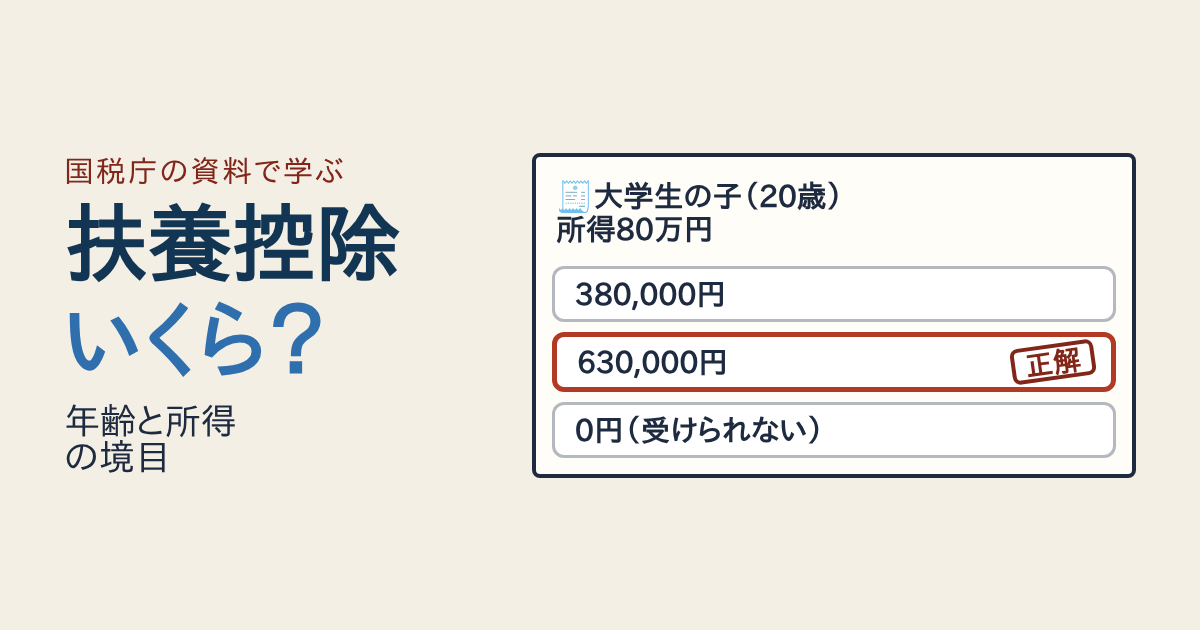
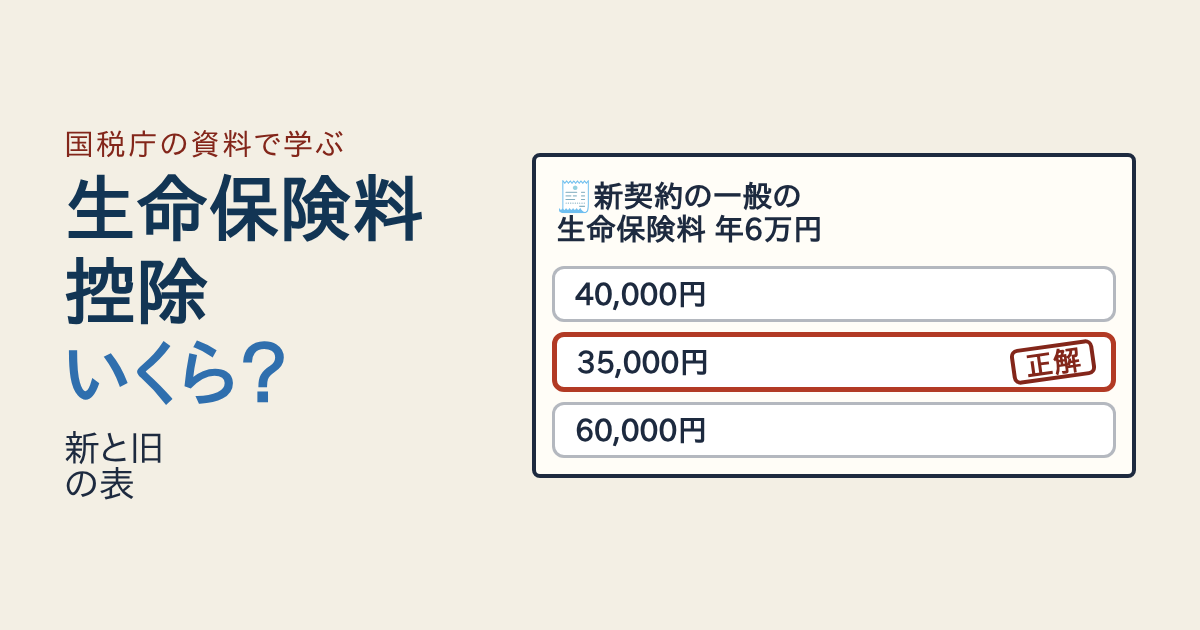
SNS の絵をこのゲームの題にし、23歳未満の特例は令和8年分のこととだけ書く（QA で見張る）
Claude-Session: https://claude.ai/code/session_01SbNQtXR9tCQbYoa7UYwgWZ

diff --git a/data.js b/data.js
@@ -1,9 +1,9 @@
 // 生命保険料控除いくら？の問題を作る（ブラウザと node の両方で使う）。
-// 中身は、国税庁タックスアンサー No.1140「生命保険料控除」に書いてあることだけ（［令和8年4月1日現在法令等］。令和8年分以降の23歳未満の扶養親族の特例を含む。2026-11-17 に読んだ。要点は共有フォルダ games/seiho-ikura-research.md）。
+// 中身は、国税庁タックスアンサー No.1140「生命保険料控除」に書いてあることだけ（［令和8年4月1日現在法令等］。令和8年分の23歳未満の扶養親族の特例を含む。2026-11-17 に読んだ。要点は共有フォルダ games/seiho-ikura-research.md）。
 // 1問は、1年に払った生命保険料・介護医療保険料・個人年金保険料（新契約か旧契約か）を読んで、生命保険料控除の額を選ぶ。正解したら2段目「どの決まり？」を選ぶ。
 // 答えはコードで計算する：新契約（平成24年1月1日以後）は 2万円以下 全額・4万円以下 ×1/2+1万円・8万円以下 ×1/4+2万円・超 4万円。
 //   旧契約（平成23年12月31日以前）は 2.5万円以下 全額・5万円以下 ×1/2+1.25万円・10万円以下 ×1/4+2.5万円・超 5万円。
-//   新と旧の両方があるときは、新だけ・旧だけ・両方の合計（4万円まで）のうち多いほう。令和8年分から、23歳未満の扶養親族がいると新生命保険料は別の表（最高6万円。両方の合計も6万円まで）。
+//   新と旧の両方があるときは、新だけ・旧だけ・両方の合計（4万円まで）のうち多いほう。令和8年分は、23歳未満の扶養親族がいると新生命保険料は別の表（最高6万円。両方の合計も6万円まで）。
 //   3つ（一般の生命保険料・介護医療保険料・個人年金保険料）の合計は12万円まで。支払保険料等は、払った額から剰余金・割戻金を引いた額。
 // 金額はどれも4の倍数にして、1円未満の端数が出ないようにする（No.1140 に端数の決まりが書いていないため）。
 // 税額・保険期間5年未満の貯蓄保険などの対象外・地方税（住民税）・申告の手続きは扱わない（画面に書く）。
@@ -12,7 +12,7 @@
 (function (root) {
   "use strict";
   const LV = ["やさしい", "ふつう", "むずかしい"];
-  const AS_OF = "令和8年4月1日現在法令等（令和8年分以降の23歳未満の扶養親族の特例を含む）";
+  const AS_OF = "令和8年4月1日現在法令等（令和8年分の23歳未満の扶養親族の特例を含む）";
 
   // 出典（画面の「なぜ」に出す）
   const SRC = {
@@ -46,7 +46,7 @@
     shin: "2012年1月1日以後の契約は新契約の表です。2万円まで全額、8万円を超えると4万円です。",
     kyu: "2011年12月31日以前の契約は旧契約の表です。2.5万円まで全額、10万円を超えると5万円です。旧契約の医療保険も旧生命保険料です。",
     awase: "新と旧の両方があると、新だけ・旧だけ・両方の合計（4万円まで）のうち多いほうです。旧が6万円を超えると旧だけが多くなります。",
-    wakai: "令和8年分から、23歳未満の扶養親族がいると新生命保険料は別の表です。3万円まで全額、12万円を超えると6万円です。",
+    wakai: "令和8年分は、23歳未満の扶養親族がいると新生命保険料は別の表です。3万円まで全額、12万円を超えると6万円です。",
     gokei: "一般の生命保険料・介護医療保険料・個人年金保険料の控除を足します。合計は12万円までです。",
   };
   const KEY = {

diff --git a/index.html b/index.html
@@ -501,7 +501,7 @@ const TIPS = [
   ["旧契約の表", "2.5万円まで全額、5万円まで半分＋1.25万円、10万円まで4分の1＋2.5万円、10万円を超えると5万円です。"],
   ["3つの控除", "一般の生命保険料・介護医療保険料・個人年金保険料で、それぞれ控除を出して足します。合計は12万円までです。"],
   ["新と旧の両方", "新と旧の両方があると、両方の合計は4万円までです。旧だけで計算したほうが多ければ、そちらを使えます。"],
-  ["23歳未満の扶養親族", "令和8年分から、23歳未満の扶養親族がいると新生命保険料の控除は最高6万円です。"],
+  ["23歳未満の扶養親族", "令和8年分は、23歳未満の扶養親族がいると新生命保険料の控除は最高6万円です。"],
   ["剰余金・割戻金", "保険料は、その年に払った額から、その年に受けた剰余金や割戻金を引いた額で計算します。"],
 ];
 const tipOf = (k) => TIPS[((dayNo(k) - 1) % TIPS.length + TIPS.length) % TIPS.length];
